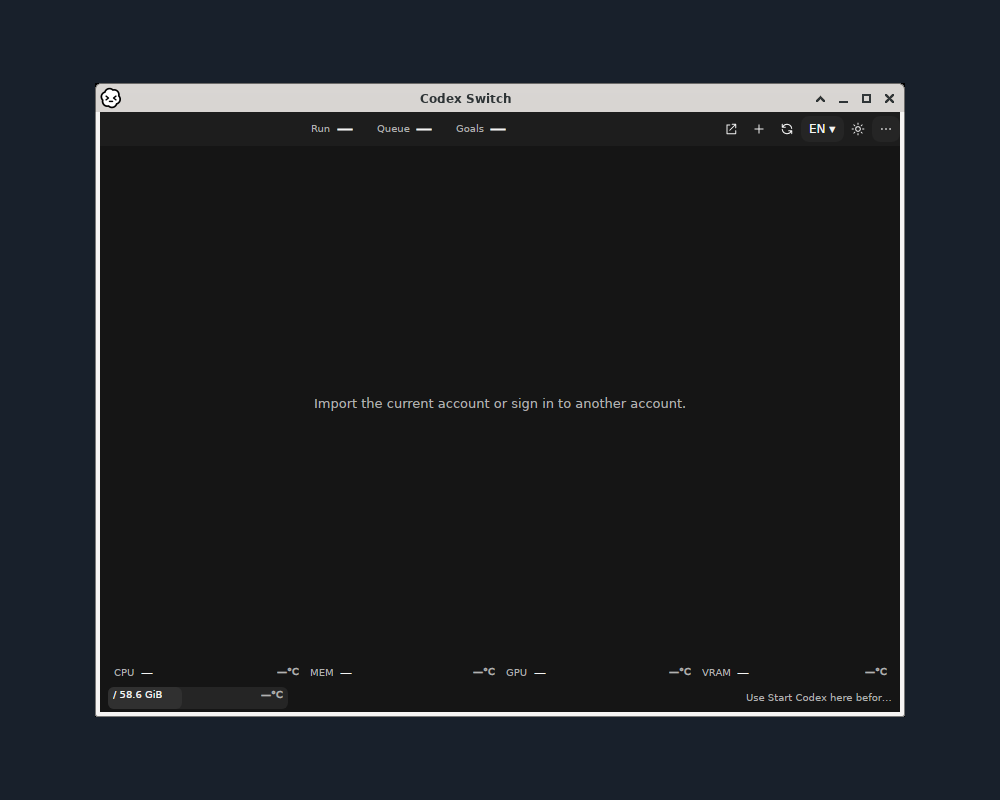
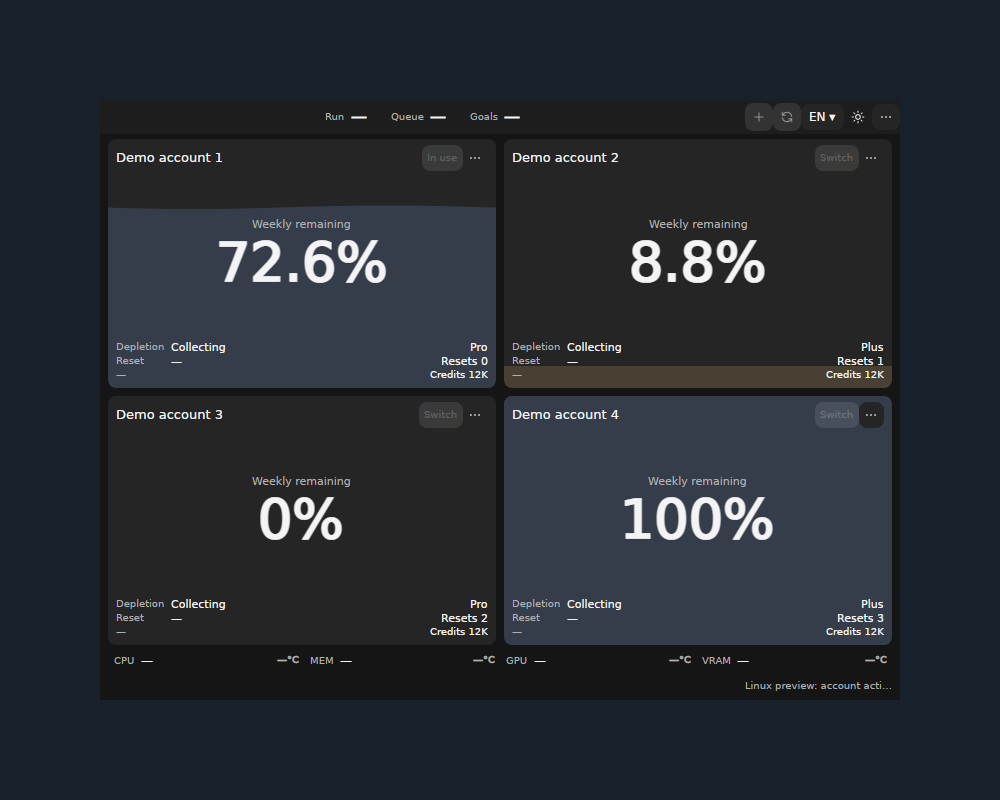
docs: show Linux demo accounts in the main screenshot (#93)

diff --git a/docs/media/release-1.40.7/README.md b/docs/media/release-1.40.7/README.md
@@ -1,15 +1,21 @@
 # Codex Switch 1.40.7: native Windows and Linux windows
 
-Actual application windows from capture revision `a3f4d5f3a2e0c54378f5371682b1d928700c6c50`, source1.40.7/.NET10.0.13. [Windows verification](https://github.com/Gaebabi/codex-switch/actions/runs/39011565929) and [Linux native verification](https://github.com/Gaebabi/codex-switch/actions/runs/39011565994) passed all six protected checks before PR90 merged. [Original/presentation hashes and scope](gallery.json).
+Actual application windows from source1.40.7/.NET10.0.13. Capture revisions are recorded **per image**: the Windows and supporting Xfce frames retain `a3f4d5f3a2e0c54378f5371682b1d928700c6c50`; the Linux account overview uses the exact released source `7645e74e5285b3f8458333a0381a4a12e36eb357`. [Original/presentation hashes and scope](gallery.json). The overview's native x64 capture comes from [Linux39020165299](https://github.com/Gaebabi/codex-switch/actions/runs/39020165299), whose x64/ARM64 jobs passed before PR92 merged.
 
 ![Actual Windows application with the visible CPU download button](windows.png)
 
 Windows uses the published WPF application with fictional accounts and sensor inputs. The download icon is a real button; driver/worker authorization remains explicit. This picture does not claim physical CPU availability. [Actual app before/after and sensor security evidence](../../evidence/cpu-setup/README.md).
 
-![Actual installed Linux application with its original Xfce titlebar](linux.png)
+![Actual native Linux app showing four fictional demo accounts](linux.png)
+
+The main Linux image shows **four fictional demo accounts** in the actual published Linux app, using its existing isolated UI verification mode. It presents the account cards, remaining quota and manual Switch controls without using any personal account or a real login. [Native source/runtime/original image receipt](linux-demo.json). This original app-owned X11 capture has no surrounding window-manager frame; none was synthesized or borrowed from another OS. It is a native UI confirmation, not authenticated account-switch/continuation acceptance.
+
+## Supporting installed-desktop evidence
+
+![Retained installed Linux app with its original Xfce titlebar](linux-desktop.png)
 
 Linux uses the ordinary per-user installed app with an empty account home and real Xfce/xfwm4 frame in isolated Debian13 userspace. [53-check session receipt](linux-session.json) covers lifecycle, original encrypted-key preservation, automatic initialization after unlock and offline managed-client integration. It is not a booted VM, full GNOME/KDE/Wayland/ARM64 desktop or authenticated active-chat continuation claim. Linux stays an unsigned integration preview.
 
-The original titlebar/window pixels remain unchanged at1:1, centered on a solid1000×800 `#18202b` background. No personal desktop, cursor, account identity or authentication pixels are captured. Metadata is removed and final images visually inspected. Capture and final Release package revisions are deliberately distinct; the Release receipt binds final artifacts, reviewed source and merged tree.
+All original app pixels remain unchanged at1:1, centered on a solid1000×800 `#18202b` background. Existing titlebars are preserved, and no missing window-manager decoration is fabricated. No personal desktop, cursor, account identity or authentication pixels are captured. Metadata is removed and final images visually inspected. The retained empty-home installed-desktop image and53-check receipt establish their original lifecycle scope; the demo overview improves feature visibility. The published1.40.7 package/verification assets remain unchanged and keep their original release-time gallery; current main documentation contains this correction.
 
 **MacBook real-device screenshot remains reserved for the maintainer.** macOS downloads remain1.40.2. Do not relabel CI pictures as the owner's MacBook capture.

diff --git a/docs/development/STATUS.md b/docs/development/STATUS.md
@@ -1,5 +1,7 @@
 # Current status
 
+Issue93 corrects the main Linux screenshot: the actual source1.40.7 native X11 app now shows four fictional demo accounts, rather than the empty installed-home frame. All four README languages label the inputs; original source/image hashes, pixels and privacy are verified. The original Xfce/frame image and53-check lifecycle receipt remain separate supporting evidence. This is documentation/media only, with no app/data or published binary/verification asset change. The focused PR owns final six checks/review/merge and public main-image verification.
+
 Release1.40.7 Windows/Linux publication is explicitly authorized. The focused release PR owns exact-head six checks, seven native package/privacy audits, final self-review/merge and GitHub asset verification; [release procedure](RELEASE_1_40_7.md) and the versioned Release receipt are authoritative. [Current Windows/Linux app images](../media/release-1.40.7/README.md) use sourcea3f4d5f and no personal pixels. CPU89/90 is merged at main9c16441; its physical owner confirmation is separate from CI. macOS downloads remain1.40.2. Earlier entries below retain their checkpoint-time publication scope.
 
 Native capture26789af passes the Windows published-app check and exports 36 validated images; [12 privacy-inspected CPU before/after confirmations](../evidence/cpu-setup/README.md) cover download/authorization, both themes, available Celsius and 500×360 at100% CPU. Current source diagnostics also replace the real normal worker and await a fresh capability packet without UAC. The owner separately confirms physical Celsius in the corrected1.40.6 personal installation. Final evidence-head six checks/review/merge remain in PR90; source1.40.7 retains published1.40.2.

diff --git a/docs/README.ja.md b/docs/README.ja.md
@@ -34,7 +34,9 @@ Linuxは統合プレビューです。キーストア・インストール済み
 [Windows/Linux最新画像と検証範囲](media/release-1.40.7/README.md)。実際のタイトルバーを残して単色背景に配置し、架空のUI入力と実アカウント検証を明記します。
 
 ![Windows実行画面](media/release-1.40.7/windows.png)
-![Linux Xfce実行画面](media/release-1.40.7/linux.png)
+![4つのデモアカウントを表示するLinuxアプリ](media/release-1.40.7/linux.png)
+
+実際のLinuxネイティブアプリに**架空のデモアカウント4つ**を表示しています。個人のログイン情報は使用していません。[インストール済みXfce画面と検証範囲](media/release-1.40.7/README.md)は別途保持しています。
 
 **MacBook実機のスクリーンショットは後日追加予定です。**
 <!-- MacBook screenshot slot: media/release-1.40.7/macbook.png; privacy/provenance review required. -->

diff --git a/README.md b/README.md
@@ -46,7 +46,9 @@ Actual application titlebars/controls are preserved on a solid background. Capti
 
 ![Codex Switch running on Windows](docs/media/release-1.40.7/windows.png)
 
-![Codex Switch running in an isolated Linux Xfce desktop](docs/media/release-1.40.7/linux.png)
+![Codex Switch on Linux showing four demo accounts](docs/media/release-1.40.7/linux.png)
+
+Linux account overview in the actual native app with **four fictional demo accounts**; no personal login is pictured. The [separate installed Xfce window and verification scope](docs/media/release-1.40.7/README.md) remain available.
 
 **MacBook screenshot:** reserved for the maintainer's real-device capture.
 <!-- MacBook screenshot slot: add docs/media/release-1.40.7/macbook.png and its privacy/provenance receipt, then embed here. Never substitute a different OS image or mockup. -->
